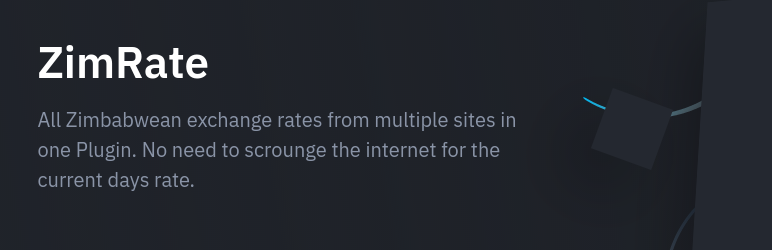
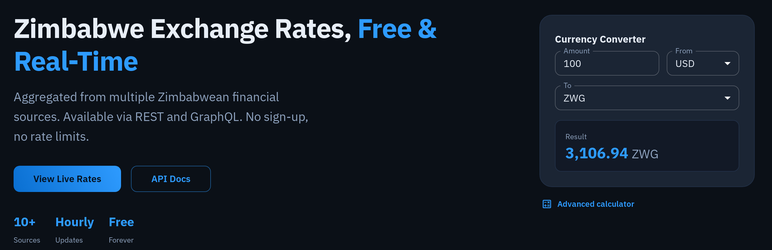
Refresh the wordpress.org assets and let the deploy push them
Seven screenshots for 1.1.6, each ringing the part that matters: the
dashboard calculator, the blocks in a post and their sidebars, the rates
screen and the short code reference. The banner is a fresh crop of the
ZimRate hero, at both sizes wordpress.org serves.

The icons are copied in beside them because the action's asset rsync runs
with --delete, and anything missing from this directory would be dropped
from the live assets. The deploy now points at it, so assets go up with the
release instead of being left at their 2020 state.

diff --git a/README.md b/README.md
@@ -97,13 +97,33 @@ Though would have wanted to supported Easy Digital Downloads, could not get hold
 
 ### Screenshots
 
-#### 1. Zimrate Dashboard
+#### 1. The ZimRate calculator on your WordPress dashboard
 
-![The rates table on the ZimRate dashboard](.github/screenshots/screenshot-1.png)
+![The ZimRate calculator on your WordPress dashboard](.github/screenshots/screenshot-1.png)
 
-#### 2. Zimrate Options Screen
+#### 2. The blocks in a post, a rates table, a rate and a calculator
 
-![The options screen](.github/screenshots/screenshot-2.png)
+![The blocks in a post, a rates table, a rate and a calculator](.github/screenshots/screenshot-2.png)
+
+#### 3. The Currency Calculator block, choosing the currencies it offers
+
+![The Currency Calculator block, choosing the currencies it offers](.github/screenshots/screenshot-3.png)
+
+#### 4. The Exchange Rates Table block, choosing the currencies it shows
+
+![The Exchange Rates Table block, choosing the currencies it shows](.github/screenshots/screenshot-4.png)
+
+#### 5. The Exchange Rate block, the short code with a sidebar
+
+![The Exchange Rate block, the short code with a sidebar](.github/screenshots/screenshot-5.png)
+
+#### 6. Every rate ZimRate covers, on the plugins own screen
+
+![Every rate ZimRate covers, on the plugins own screen](.github/screenshots/screenshot-6.png)
+
+#### 7. Supported plugins and the [zimrate] short code
+
+![Supported plugins and the [zimrate] short code](.github/screenshots/screenshot-7.png)
 
 ### Changelog
 
